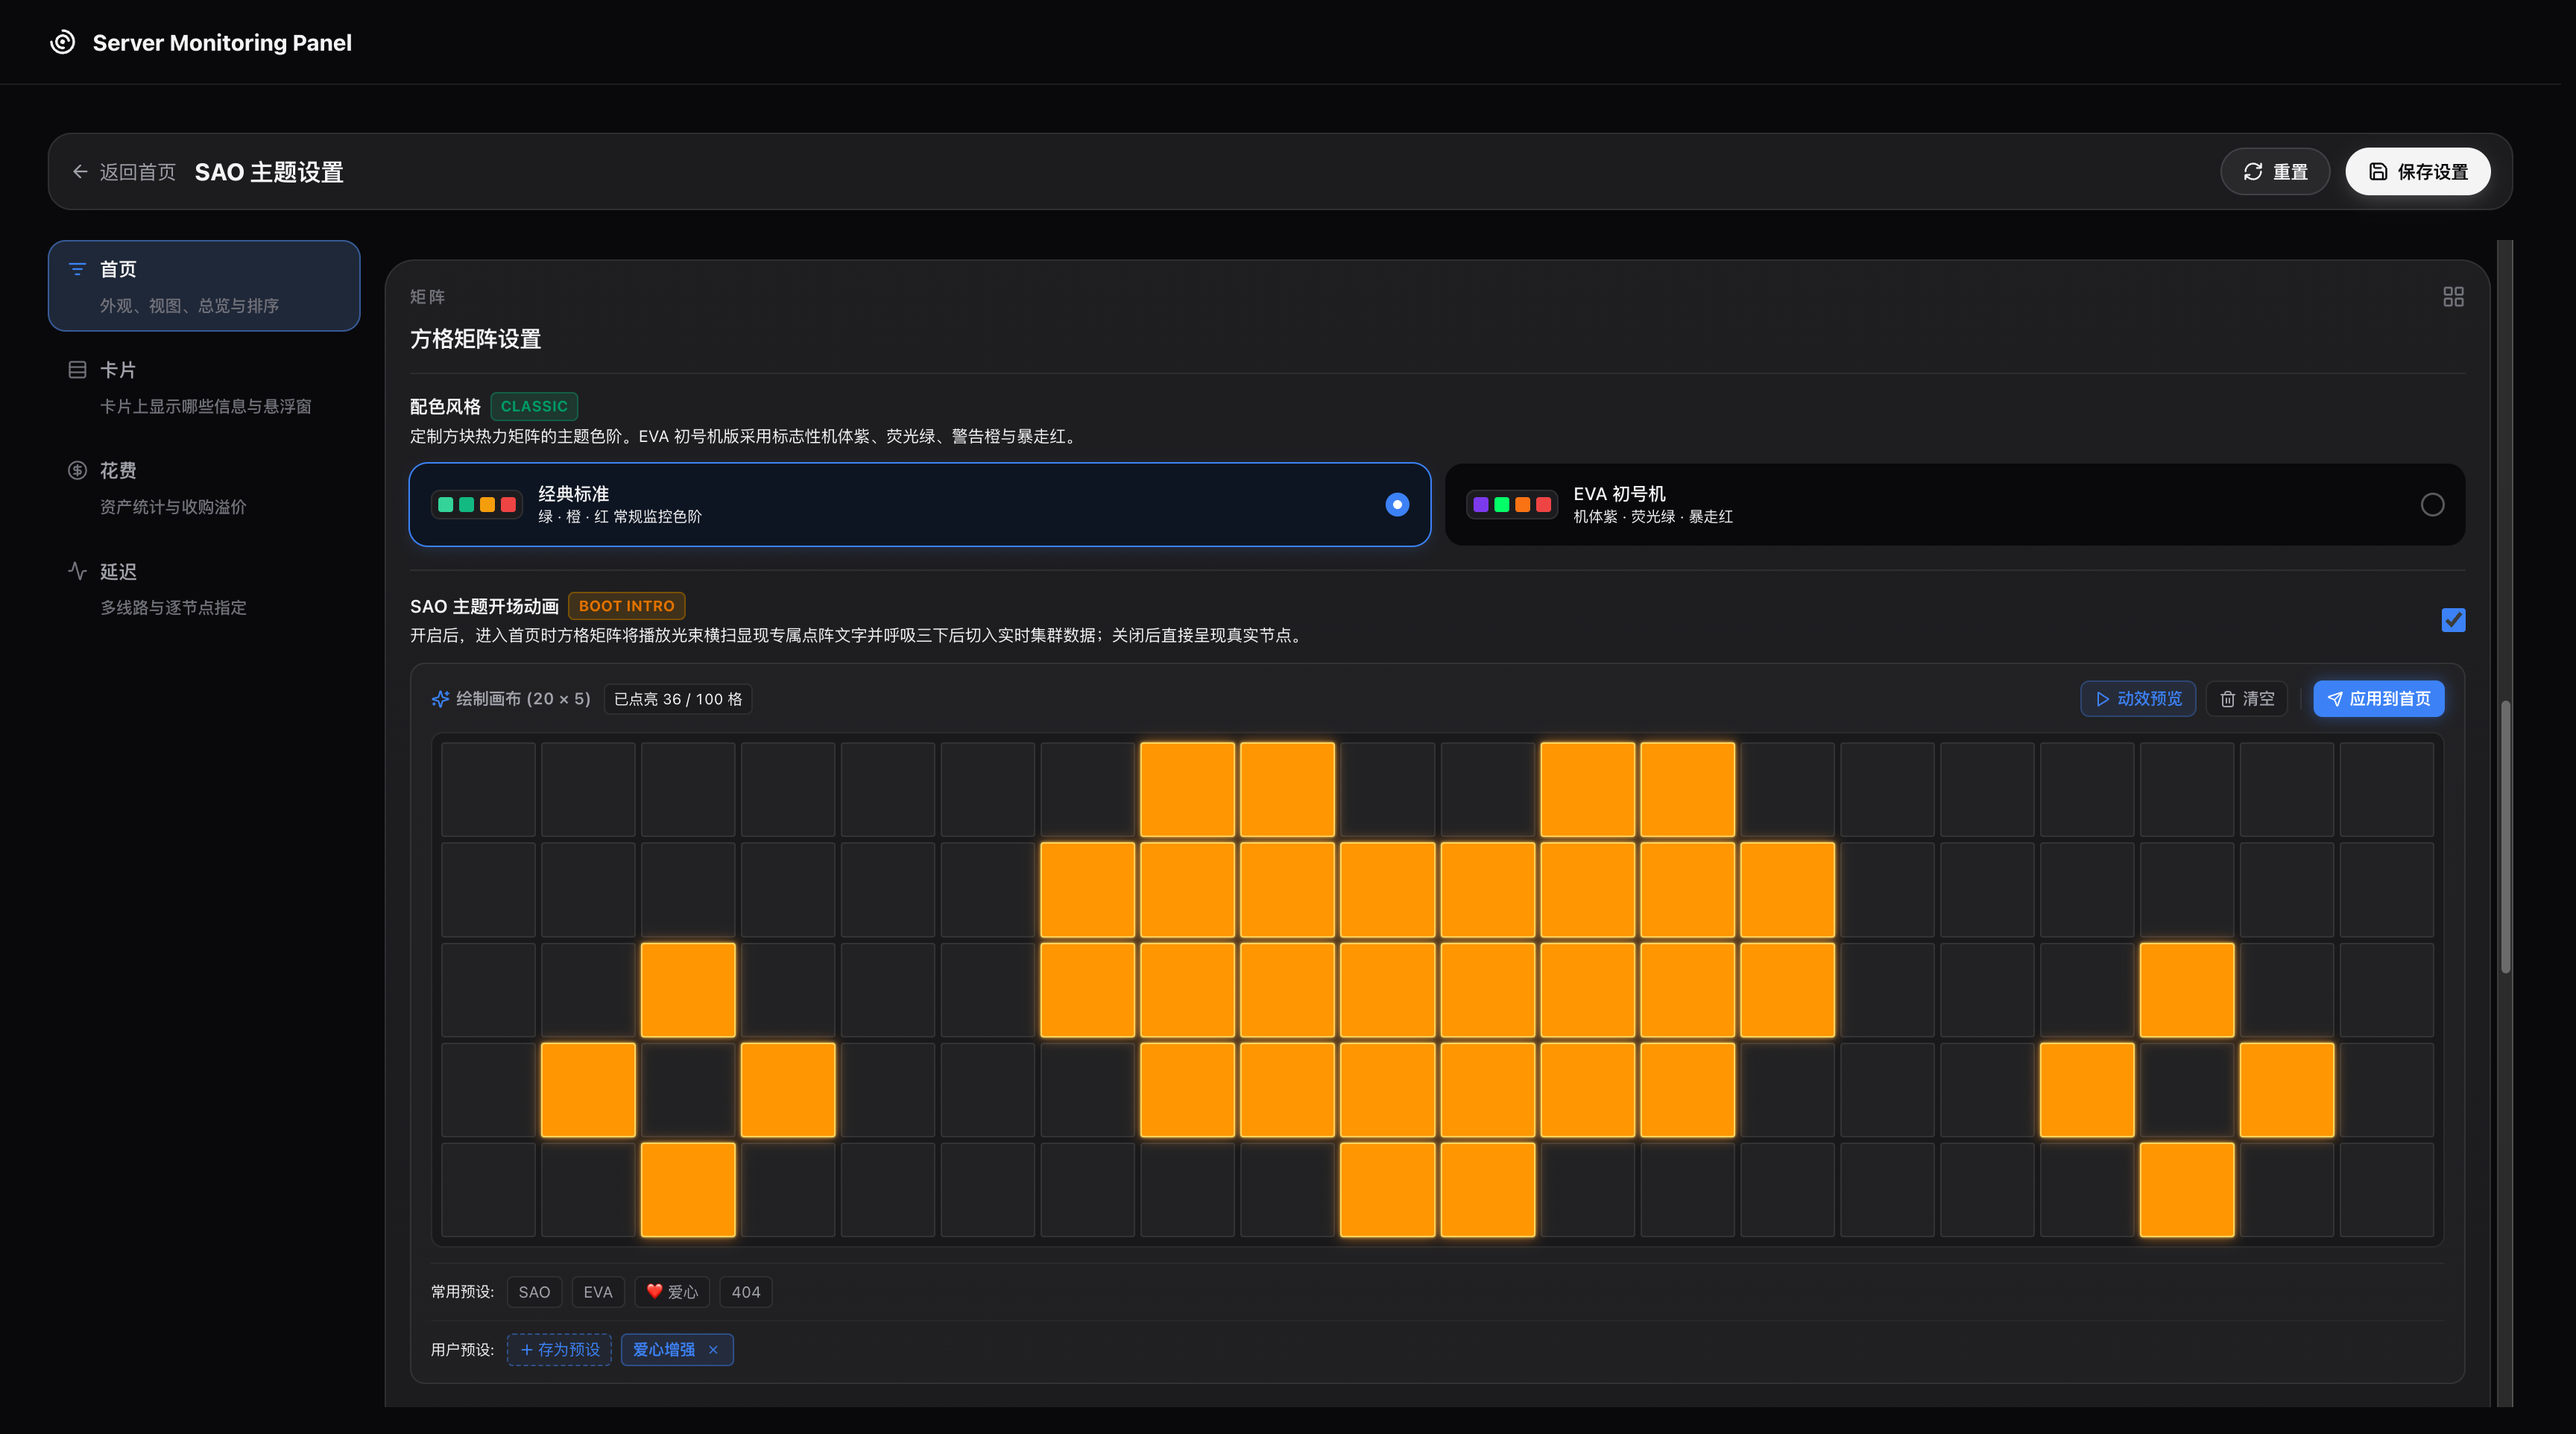
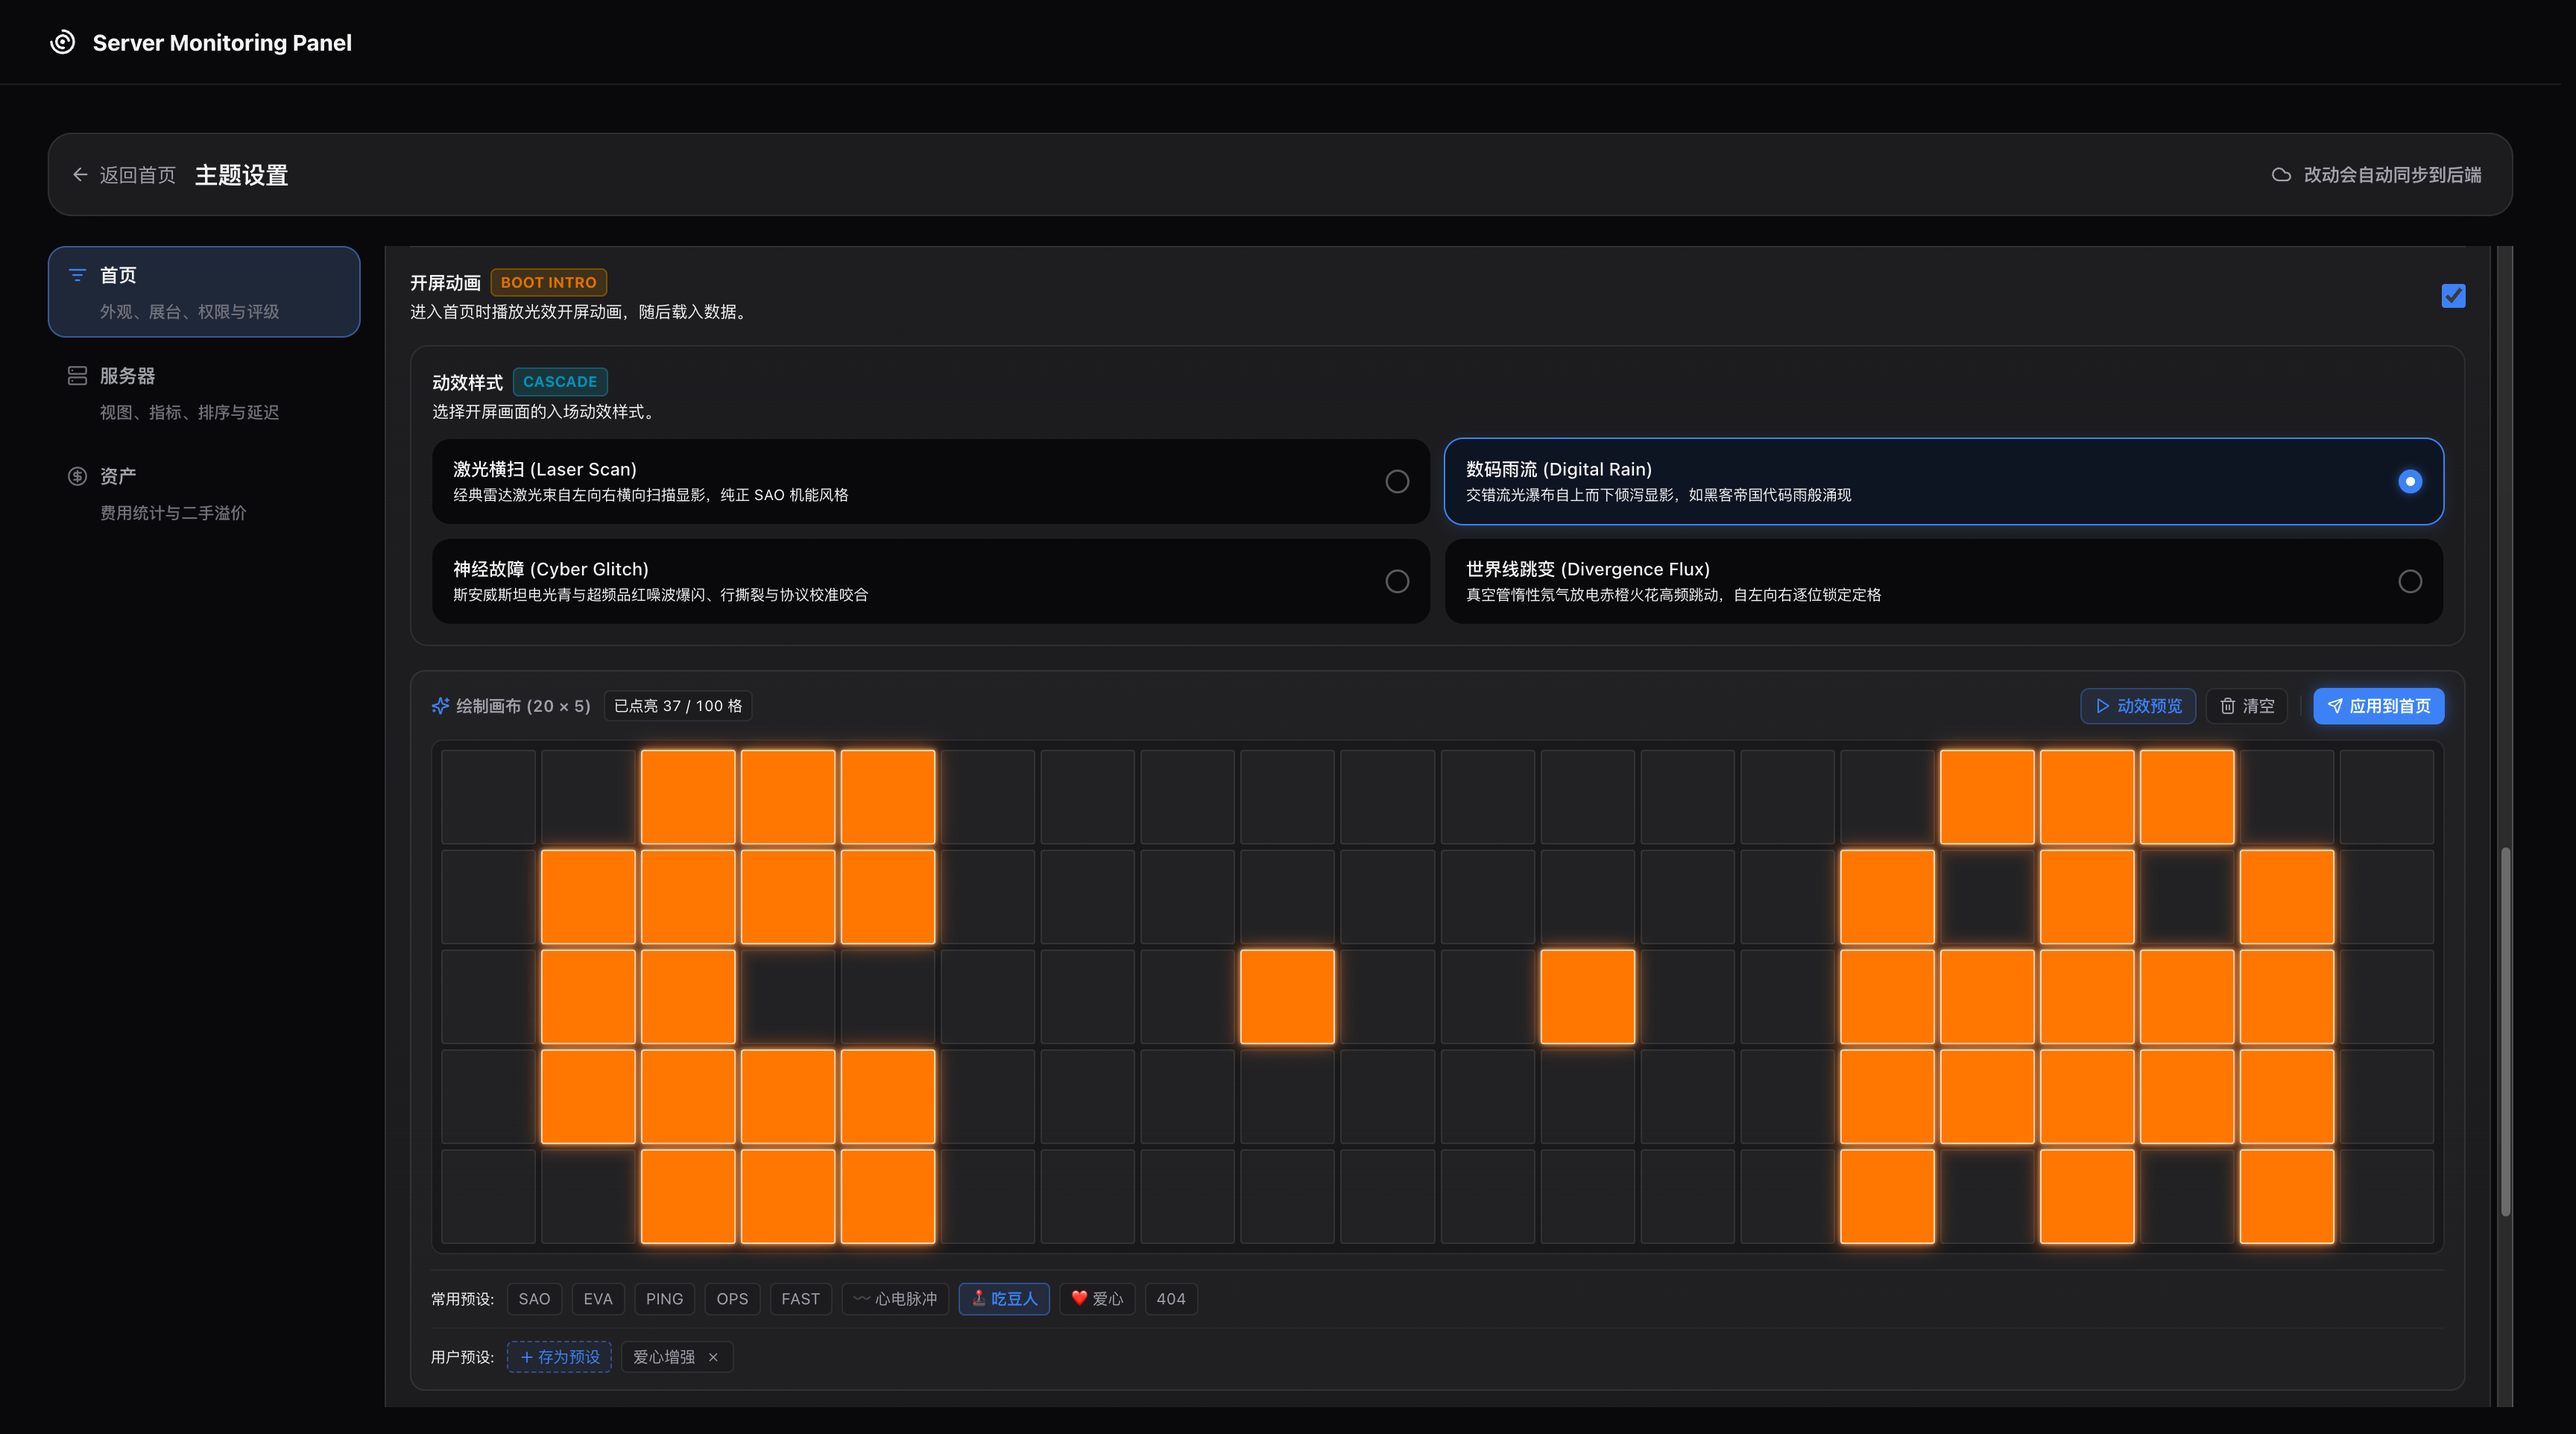
docs: 更新主题设置截图并新增 Steins;Gate 配色与动效动图展示

diff --git a/README.md b/README.md
@@ -80,7 +80,11 @@
 | :---: | :---: |
 | <img src="./docs/images/matrix-light.png" alt="浅色模式 EVA 配色" width="100%" /> | <img src="./docs/images/matrix-dark.png" alt="深色模式 EVA 配色" width="100%" /> |
 | **开屏激光扫光与点阵文字** | **主题管理：微型点阵画板与矩阵设置** |
-| <img src="./docs/images/matrix-opening.png" alt="开屏扫光动效" width="100%" /> | <img src="./docs/images/matrix-settings.png" alt="主题设置与点阵画板" width="100%" /> |
+| <img src="./docs/images/matrix-opening.png" alt="开屏扫光动效" width="100%" /> | <img src="./docs/images/theme-manage.png" alt="主题设置与点阵画板" width="100%" /> |
+
+| **⏳ 命运石之门 (Steins;Gate) 配色方案 · 赛博故障 (Cyber Glitch) 开屏动效** |
+| :---: |
+| <img src="./docs/images/Steins;Gate+Cyber Glitch.gif" alt="Steins;Gate 配色方案与 Cyber Glitch 动效" width="100%" /> |
 
 ### 📱 移动端窄屏精细适配 (Mobile)
 | 移动端深色矩阵全貌 | 移动端开屏点阵动效 | 移动端主题管理与点阵画板 |
